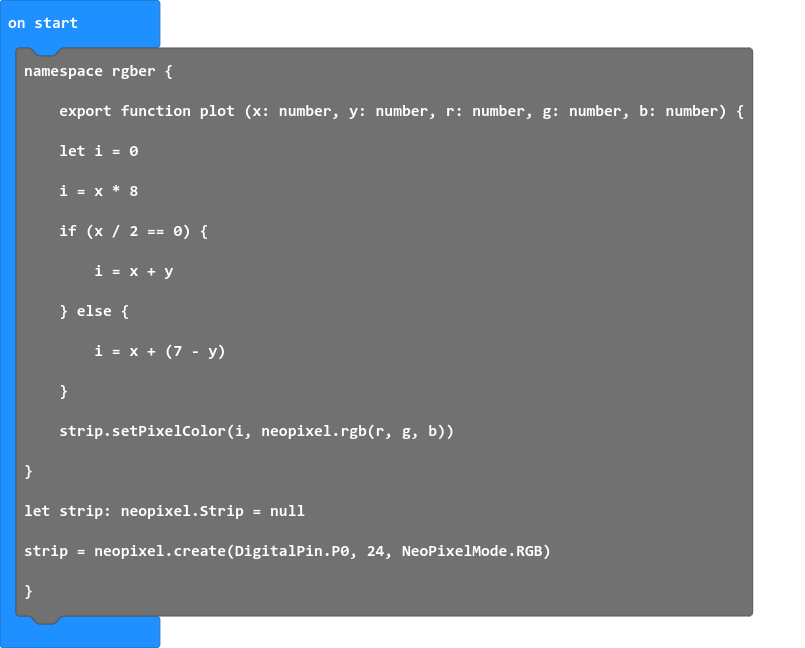
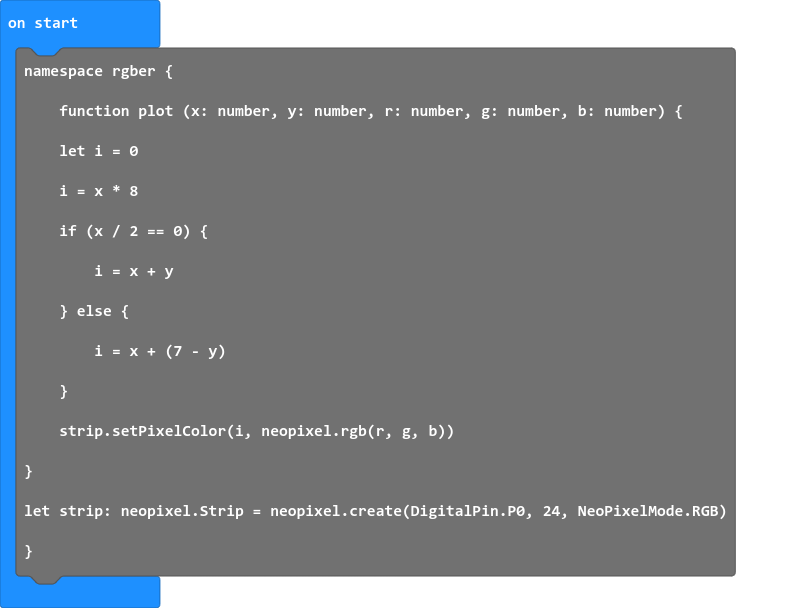
Update pxt.json, main.blocks, main.ts

diff --git a/main.ts b/main.ts
@@ -9,6 +9,5 @@ namespace rgber {
     }
     strip.setPixelColor(i, neopixel.rgb(r, g, b))
 }
-let strip: neopixel.Strip = null
-strip = neopixel.create(DigitalPin.P0, 24, NeoPixelMode.RGB)
+let strip: neopixel.Strip = neopixel.create(DigitalPin.P0, 24, NeoPixelMode.RGB)
 }
